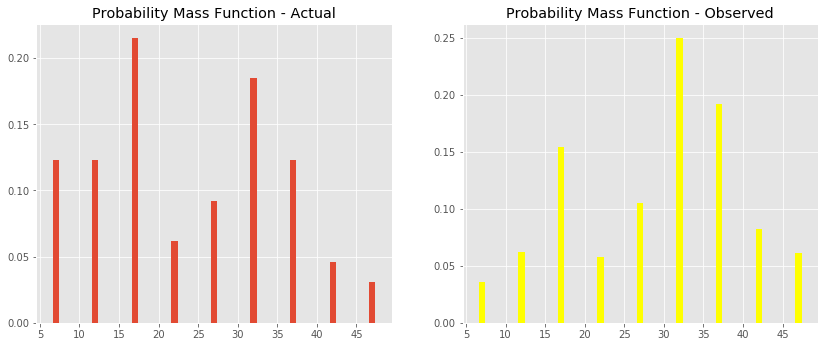
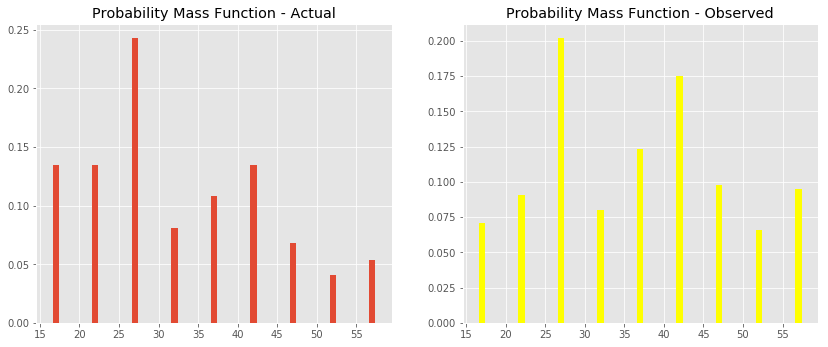
lab complete

diff --git a/README.md b/README.md
@@ -51,12 +51,18 @@ size_and_count = { 17: 10, 22: 10,
           27: 18, 32: 6, 37: 8, 42: 10, 47: 5, 52: 3, 57: 4 }
 ```
 
+
+```python
+import numpy as np
+```
+
 Following the approach seen in the previous lesson, calculate the PMG by normalizing each size. 
 
 
 ```python
-sizes = None
-pmf = None
+sizes = list(size_and_count.keys())
+counts = sum(list(size_and_count.values()))
+pmf = list(np.array(list(size_and_count.values())) / counts)
 sizes, pmf
 
 # ([17, 22, 27, 32, 37, 42, 47, 52, 57],
@@ -67,7 +73,15 @@ sizes, pmf
 
 
     ([17, 22, 27, 32, 37, 42, 47, 52, 57],
-     [0.135, 0.135, 0.243, 0.081, 0.108, 0.135, 0.068, 0.041, 0.054])
+     [0.13513513513513514,
+      0.13513513513513514,
+      0.24324324324324326,
+      0.08108108108108109,
+      0.10810810810810811,
+      0.13513513513513514,
+      0.06756756756756757,
+      0.04054054054054054,
+      0.05405405405405406])
 
 
 
@@ -76,7 +90,7 @@ As an additional check, these probability values must sum to 1. Let's check for 
 
 ```python
 # Uncomment the line below, the output should be 1
-#np.array(pmf).sum()
+np.array(pmf).sum()
 ```
 
 
@@ -99,7 +113,7 @@ In simple terms, you have to multiply each element in the sizes list to their pr
 
 ```python
 # Calculate the expected value (mu) using formula above
-mu = None
+mu = np.sum(np.multiply(np.array(sizes) , np.array(pmf)))
 
 mu 
 
@@ -109,7 +123,19 @@ mu
 
 
 
-    32.49000000000001
+    32.472972972972975
+
+
+
+
+```python
+sum([a*b for a,b in zip(sizes, pmf)])
+```
+
+
+
+
+    32.47297297297298
 
 
 
@@ -121,7 +147,26 @@ So according to the campus manager, the average class size is 27. This makes a l
 ```
 
 
-![png](index_files/index_9_0.png)
+![png](index_files/index_11_0.png)
+
+
+
+```python
+import matplotlib.pyplot as plt
+%matplotlib inline
+plt.style.use('ggplot')
+plt.stem(sizes, pmf)
+```
+
+
+
+
+    <StemContainer object of 3 artists>
+
+
+
+
+![png](index_files/index_12_1.png)
 
 
 ## Random Student Survey
@@ -137,12 +182,18 @@ The result is a new PMF that represents the biased distribution.
 
 
 ```python
-biased = []
+sizes = np.array(sizes)
+pmf = np.array(pmf)
+```
 
 
-biased_sum = None
+```python
+biased = sizes * pmf
 
-biased, biased_sum
+
+biased_sum = sum(biased)
+
+biased, biased_sum, pmf
 
 # ([2.295, 2.97, 6.561, 2.592, 3.996, 5.67, 3.196, 2.132, 3.078], 32.49)
 ```
@@ -150,7 +201,11 @@ biased, biased_sum
 
 
 
-    ([2.295, 2.97, 6.561, 2.592, 3.996, 5.67, 3.196, 2.132, 3.078], 32.49)
+    (array([2.2972973 , 2.97297297, 6.56756757, 2.59459459, 4.        ,
+            5.67567568, 3.17567568, 2.10810811, 3.08108108]),
+     32.47297297297298,
+     array([0.13513514, 0.13513514, 0.24324324, 0.08108108, 0.10810811,
+            0.13513514, 0.06756757, 0.04054054, 0.05405405]))
 
 
 
@@ -159,7 +214,7 @@ You can now normalize the new biased list with the sum of its values, just like 
 
 
 ```python
-pmf2 = []
+pmf2 = np.array( biased / biased_sum )
 
     
 sizes, pmf2
@@ -171,8 +226,9 @@ sizes, pmf2
 
 
 
-    ([17, 22, 27, 32, 37, 42, 47, 52, 57],
-     [0.071, 0.091, 0.202, 0.08, 0.123, 0.175, 0.098, 0.066, 0.095])
+    (array([17, 22, 27, 32, 37, 42, 47, 52, 57]),
+     array([0.0707449 , 0.09155223, 0.20224719, 0.07990012, 0.12317936,
+            0.17478152, 0.09779442, 0.06491885, 0.0948814 ]))
 
 
 
@@ -180,7 +236,7 @@ You can see that probabilities values in this PMF are different than our origina
 
 
 ```python
-mu_biased = None
+mu_biased = np.sum( sizes * pmf2)
 
 mu_biased
 # 36.577000000000005
@@ -189,7 +245,7 @@ mu_biased
 
 
 
-    36.577000000000005
+    36.5131086142322
 
 
 
@@ -204,10 +260,36 @@ Here we see it, the average or expected value of biased results comes out much h
 ```python
 # Plot pmfs side by side
 
+
 ```
 
 
-![png](index_files/index_17_0.png)
+![png](index_files/index_21_0.png)
+
+
+
+```python
+fig = plt.figure(figsize=[14,5])
+ax1 = fig.add_subplot(121)
+ax2 = fig.add_subplot(122)
+
+ax1.bar(sizes, pmf)
+ax1.set_title("Probability Mass Function - Actual")
+ax2.bar(sizes, pmf2, color='yellow')
+ax2.set_title("Probability Mass Function - Expected")
+plt.ylim(0, 0.25)
+plt.show
+```
+
+
+
+
+    <function matplotlib.pyplot.show(*args, **kw)>
+
+
+
+
+![png](index_files/index_22_1.png)
 
 
 Your results tell you that in the biased distribution there are fewer small classes and more large classes. 
@@ -219,11 +301,21 @@ To to an even more direct comparison, plot these pmfs on top of each other and c
 
 ```python
 # Plot pmfs overlapping
-
+p1 = plt.stem(sizes, pmf, '-', 'go', 'r-', label= 'Actual')
+p2 = plt.stem(sizes, pmf2, '-', 'ro', 'r-', label= 'Observed')
+plt.legend((p1[0], p2[0]), ('Actual', 'Expected'))
+plt.show
 ```
 
 
-![png](index_files/index_19_0.png)
+
+
+    <function matplotlib.pyplot.show(*args, **kw)>
+
+
+
+
+![png](index_files/index_24_1.png)
 
 
 Here is the key. For smaller class sizes, the probability of coming across a students is lower than the actual probability. For larger classes, the probability of coming across a student is much higher than actual probability. This explains why the paradox takes place!
